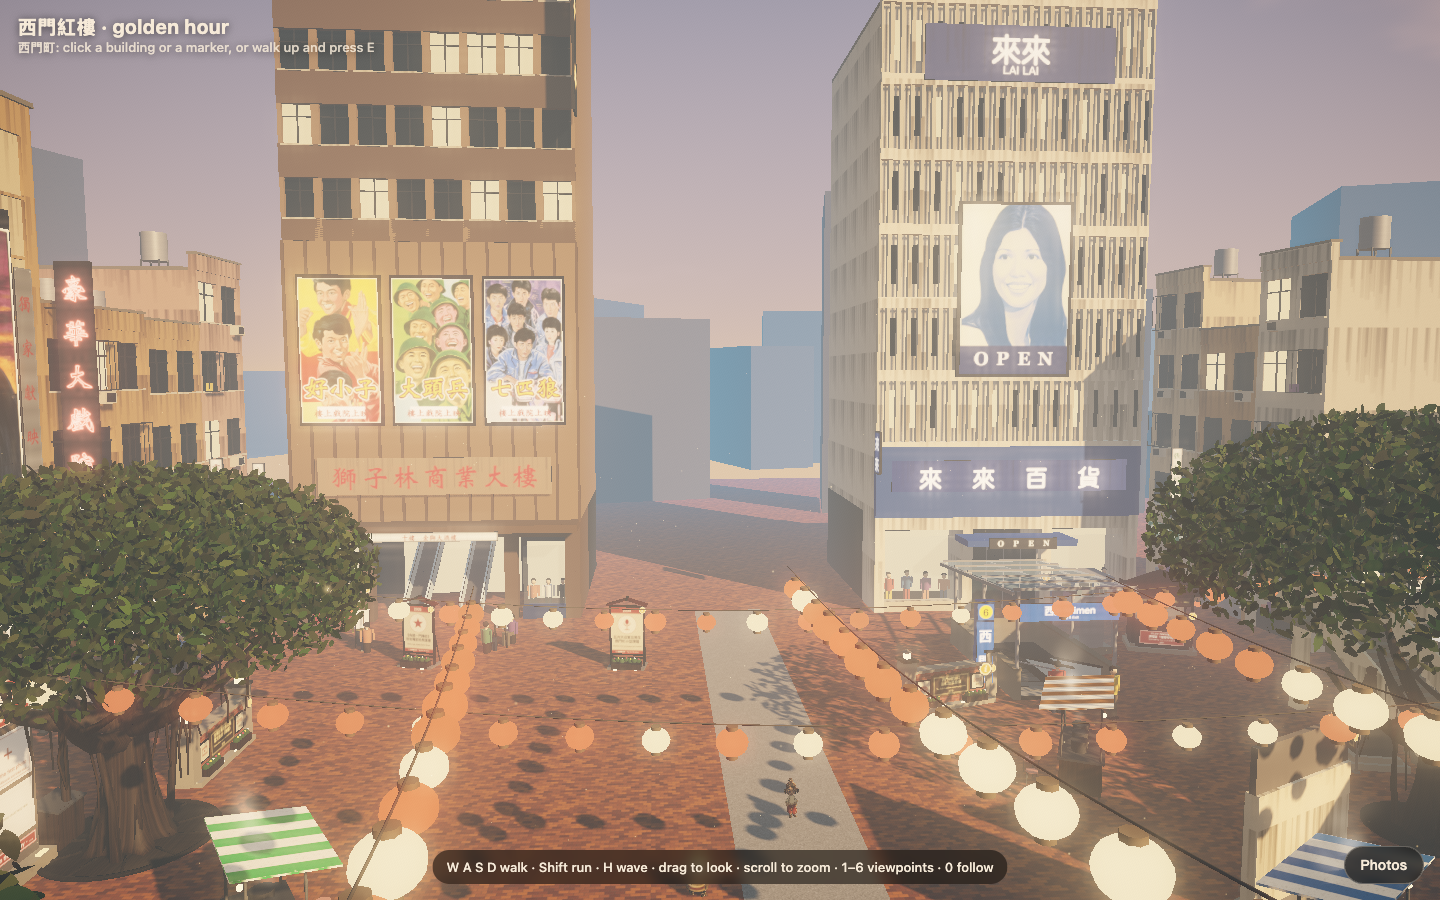
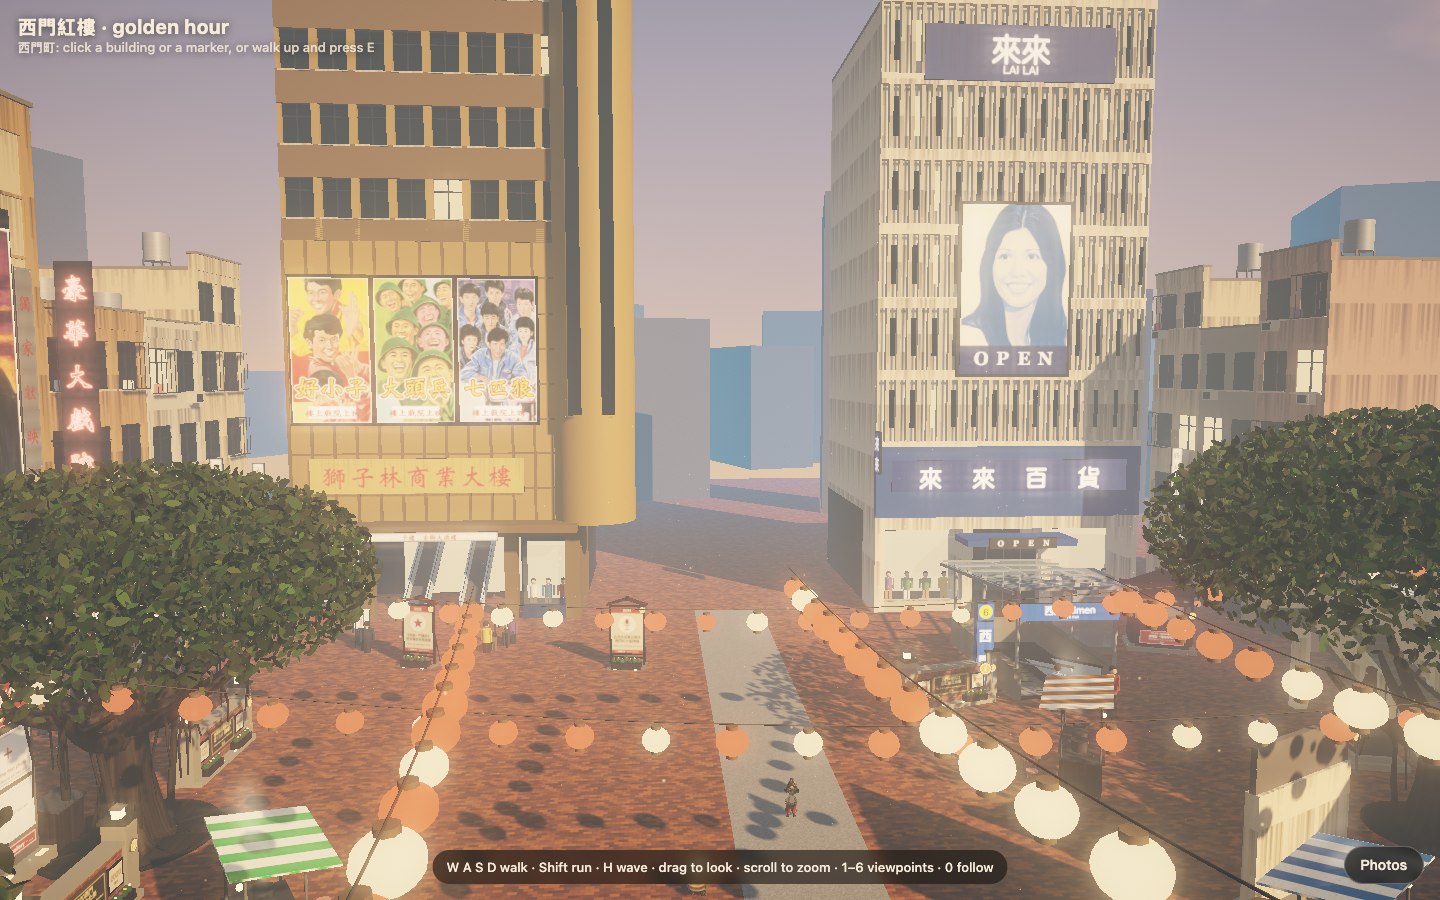
feat(remake): 蜂大, 南美, 天后宮, 萬年 and 獅子林 fronts rebuilt from their photos
Brick and tile shopfronts, a three-storey temple face, 萬年's ribbed front
with the name down the middle, 獅子林's gold panels and corner tower.

diff --git a/remake/landmarks-ximen.js b/remake/landmarks-ximen.js
@@ -312,12 +312,17 @@ function wannian() {
   [[-5.0, -2.4], [2.6, 5.0]].forEach(([a, b]) => { K.bx(a, b, 0.5, 3.4, -0.6, -0.55, M.pane); K.bx(a, b, 0, 0.5, -0.7, -0.1, M.greenDk); K.bx(a + 0.05, b - 0.05, 0.5, 3.4, -3.18, -3.14, M.shopLit);
     for (let s = 0; s < 5; s++) { const y = 0.55 + s * 0.55; K.bx(a + 0.05, b - 0.05, y, y + 0.03, -1.5, -0.75, M.jar); for (let k = 0; k < 7; k++) { const gx = a + 0.1 + k * (b - a - 0.2) / 7; K.bx(gx, gx + 0.26, y + 0.03, y + rr(0.2, 0.48), -1.4, -0.9, pick(CLOTH)); } } });     // model-kit boxes stacked to the ceiling
   K.mesh(sign('豪華鐘錶公司', 2.3, 0.42, { kind: 'box', bg: '#f1ead6', fg: '#1a1a1a', spread: true, glow: 0.8, oneSide: true }), -3.7, 3.62, 0.06); K.mesh(sign('萬年冰宮', 2.3, 0.42, { kind: 'box', bg: '#1f4f9c', fg: '#ffffff', spread: true, glow: 0.8, oneSide: true }), 3.8, 3.62, 0.06);
-  K.mesh(sign('萬年', 5.6, 1.5, { font: FONT, weight: 900, bg: '#efe6cf', fg: '#1a1a1a', border: false, glow: 0.5, oneSide: true }), 0, G + 0.62, 0.08);
+  K.mesh(sign('萬年', 3.2, 1.1, { font: FONT, weight: 900, bg: '#efe6cf', fg: '#1a1a1a', border: false, spread: true, glow: 0.5, oneSide: true }), 0, G + 0.75, 0.1);
   // the corner fin: a three-sided neon tower, name running down nine floors
-  const fx = x0 - 0.05; K.box(1.5, top - G - 1, 1.5, M.greenDk, fx, (top + G + 1) / 2, 0.15, Math.PI / 4);
-  [[-Math.PI / 4, -0.62, 0.72], [Math.PI / 4, 0.62, 0.72]].forEach(([ry, dx, dz]) => K.mesh(sign('萬年商業大樓', 1.34, 19, { vertical: true, font: FONT, weight: 900, bg: '#3f8a66', fg: '#e3261c', border: false, glow: 1.1, oneSide: true, ppm: 52 }), fx + dx, G + 15.6, 0.15 + dz, ry));
+  // the front as the 2020 photo shows it: green with narrow white ribs, few windows; the name down the middle in red block characters under the dark oval; tenant signs hung either side
+  const LG = tm('#6fae62', TEX.concrete, 1.2, 0.55); K.bx(x0, x1, G + 1.5, top + 1.1, 0, 0.08, LG); for (let x = x0 + 0.3; x < x1; x += 0.62) K.bx(x - 0.07, x + 0.07, G + 1.5, top + 1.1, 0.08, 0.2, M.white);
+  for (let f = 0; f < 8; f++) [-3.4, 3.4].forEach(x => { if (rnd() < 0.5) K.bx(x - 0.24, x + 0.24, G + 2.6 + f * fh, G + 3.9 + f * fh, 0.08, 0.1, M.glassBlue); });
+  K.bx(-1.15, 1.15, G + 1.5, top - 0.2, 0.08, 0.22, LG); K.mesh(sign('萬年商業大樓', 1.7, 15.5, { vertical: true, font: FONT, weight: 900, bg: '#5a9a52', fg: '#e3261c', border: false, glow: 1.0, oneSide: true, ppm: 60 }), 0, G + 10.4, 0.28);
   K.mesh(paint(4.4, 2.4, (g, W, H) => { g.fillStyle = '#1d4a39'; g.fillRect(0, 0, W, H); g.fillStyle = '#16181c'; g.beginPath(); g.ellipse(W / 2, H / 2, W * 0.47, H * 0.44, 0, 0, 7); g.fill(); g.textAlign = 'center'; g.textBaseline = 'middle'; g.font = `800 ${H * 0.42}px ${KAI}`;
-    [['年', 0.29], ['萬', 0.71]].forEach(([c, x]) => { g.strokeStyle = '#fff'; g.lineWidth = H * 0.035; g.beginPath(); g.arc(W * x, H / 2, H * 0.32, 0, 7); g.stroke(); g.fillStyle = '#fff'; g.fillText(c, W * x, H * 0.52); }); }, { glow: 1.2, oneSide: true }), 1.2, top + 2.5, -0.3);   // the dark oval over the corner sign: 年 and 萬 in two white rings, read right to left (2020 Commons photo) lattice(K, -1.0, 3.4, top + 1.1, top + 3.7, -0.5, 2);
+    [['年', 0.29], ['萬', 0.71]].forEach(([c, x]) => { g.strokeStyle = '#fff'; g.lineWidth = H * 0.035; g.beginPath(); g.arc(W * x, H / 2, H * 0.32, 0, 7); g.stroke(); g.fillStyle = '#fff'; g.fillText(c, W * x, H * 0.52); }); }, { glow: 1.0, oneSide: true }), 0, top - 1.9, 0.3);
+  [[-4.4, '豪華鐘錶公司', '#f4f1e8', '#141414'], [-2.6, '萬年冰宮', '#1f4f9c', '#ffffff'], [2.6, '湯姆熊', '#f2c832', '#c21f1a'], [4.4, 'U2電影館', '#7a1a22', '#ffffff']].forEach(([x, t, bg, fg], i) => { const h = 4.2 + (i % 2) * 1.4, y = G + 6.5 + (i % 3) * 2.2;
+    K.mesh(sign(t, 0.75, h, { vertical: true, kind: 'box', font: FONT, weight: 800, bg, fg, glow: 0.8 }), x, y, 0.7, Math.PI / 2); [y - h / 2 + 0.4, y + h / 2 - 0.4].forEach(yy => K.bx(x - 0.03, x + 0.03, yy, yy + 0.05, 0.2, 0.5, M.frame)); });
+  K.bx(x0, x1, G, G + 1.5, 0, 0.07, std('#efe6cf', 0.7));
   return K.done();
 }
 
@@ -351,8 +356,16 @@ function cinema() {
 // ══ 4. 台北天后宮: the narrow gate squeezed between shops on 成都路 ═══════════════════════════════════════
 function tianhou() {
   const K = Kit('tianhou-temple'), w = 6, x0 = -3, x1 = 3;
-  K.bx(x0, x1, 0, 10.5, -10, -1.6, M.pink); facade(K, { x0, x1, y0: 7.0, floors: 1, fh: 3.2, bays: 3, wall: M.pink, pier: 0.5, lit: 0.3 }); K.bx(x0, x1, 10.2, 10.9, -0.3, 0.05, M.pink);
-  K.bx(x0, x0 + 0.45, 0, 7, -1.6, 0, M.pink); K.bx(x1 - 0.45, x1, 0, 7, -1.6, 0, M.pink);
+  // the front as the 2025 photo shows it: three storeys of dark red brick. Ground floor the gate under a carved gilt eave and a row of red lanterns; second floor the name in white
+  // over a round red emblem, a window each side; third floor a balcony behind two columns; a green swallow-tail roof on top. The yellow uprights hang off the sides.
+  const RW = tm('#7a2a22', TEX.brick, 1, 0.9);
+  K.bx(x0, x1, 0, 12, -10, -1.6, RW); K.bx(x0, x0 + 0.45, 0, 12, -1.6, 0, RW); K.bx(x1 - 0.45, x1, 0, 12, -1.6, 0, RW);
+  K.bx(x0, x1, 5.9, 9.0, -1.6, -0.2, RW); K.bx(x0, x1, 11.4, 12.0, -1.6, 0.05, RW); K.bx(x0, x1, 9.0, 11.4, -1.6, -1.4, M.dark);
+  K.bx(-3.1, 3.1, 5.0, 5.5, 0, 0.55, M.gold); K.box(6.3, 0.12, 1.0, M.tileGreen, 0, 5.75, 0.5, 0, 0.45); for (let i = 0; i < 12; i++) K.bx(-2.9 + i * 0.5, -2.62 + i * 0.5, 5.08, 5.42, 0.55, 0.57, i % 2 ? M.redDk : M.tileGreen);          // the carved eave over the door
+  K.cyl(0.84, 0.84, 0.06, M.gold, 0, 6.95, -0.16, 28, [Math.PI / 2, 0, 0]); K.cyl(0.76, 0.76, 0.08, M.red, 0, 6.95, -0.13, 28, [Math.PI / 2, 0, 0]);                                                                               // the round emblem, as a plain disc
+  [-1, 1].forEach(k => { K.bx(k * 1.35, k * 2.4, 6.3, 7.9, -0.2, -0.15, M.glass); K.bx(k * 1.3, k * 2.45, 6.22, 6.3, -0.2, -0.08, M.gold); K.bx(k * 1.3, k * 2.45, 7.9, 7.98, -0.2, -0.08, M.gold); });
+  K.bx(-3.1, 3.1, 8.85, 9.0, -0.2, 0.5, M.tileGreen); K.bx(-3, 3, 8.65, 8.85, -0.1, 0.35, M.gold);
+  [-1.1, 1.1].forEach(x => K.cyl(0.16, 0.16, 2.4, M.stone, x, 10.2, -0.05, 10)); K.bx(-2.55, 2.55, 9.62, 9.7, -0.1, 0.02, M.concLt); for (let i = 0; i <= 16; i++) K.bx(-2.5 + i * 0.3125 - 0.03, -2.5 + i * 0.3125 + 0.03, 9.0, 9.62, -0.07, -0.01, M.concLt);
   // a glimpse of the courtyard and the main hall through the gate
   K.mesh(paint(4.6, 3.9, (g, W, H) => { const gr = g.createLinearGradient(0, 0, 0, H); gr.addColorStop(0, '#2a1410'); gr.addColorStop(1, '#6a3a20'); g.fillStyle = gr; g.fillRect(0, 0, W, H);
     g.fillStyle = '#c8612c'; g.beginPath(); g.moveTo(W * 0.05, H * 0.3); g.quadraticCurveTo(W * 0.5, H * 0.16, W * 0.95, H * 0.3); g.lineTo(W * 0.88, H * 0.4); g.lineTo(W * 0.12, H * 0.4); g.fill();
@@ -364,7 +377,7 @@ function tianhou() {
   [-2.45, -1.15, 1.15, 2.45].forEach(x => { K.cyl(0.2, 0.2, 4.3, M.red, x, 2.45, 0.2, 12); K.cyl(0.26, 0.3, 0.32, M.stone, x, 0.16, 0.2, 12); K.bx(x - 0.26, x + 0.26, 4.5, 4.7, -0.06, 0.46, M.gold); });
   K.bx(-2.75, 2.75, 3.95, 4.3, 0.05, 0.35, M.tileGreen); K.bx(-2.75, 2.75, 4.3, 4.42, 0.02, 0.38, M.gold); K.bx(-2.75, 2.75, 4.7, 5.0, 0, 0.4, M.redDk); K.bx(-1.3, 1.3, 5.0, 5.9, 0.02, 0.38, M.redDk);
   for (let i = 0; i < 9; i++) K.bx(-2.6 + i * 0.62, -2.6 + i * 0.62 + 0.3, 4.02, 4.24, 0.35, 0.37, i % 2 ? M.gold : M.blue);
-  K.mesh(sign('台北天后宮', 2.4, 0.72, { bg: '#6e1f1c', fg: '#ffffff', font: XING, spread: true, border: false, glow: 0.7, oneSide: true }), 0, 5.42, 0.42);
+  K.mesh(sign('台北天后宮', 3.0, 0.62, { bg: '#7a2a22', fg: '#ffffff', font: XING, spread: true, border: false, glow: 0.5, oneSide: true }), 0, 8.2, -0.14);
   [x0 - 0.08, x1 + 0.08].forEach(x => { K.mesh(sign('台北天后宮', 0.62, 4.4, { vertical: true, kind: 'box', font: KAI, bg: '#f2c832', fg: '#c21f1a', glow: 0.8 }), x, 7.6, 0.55, Math.PI / 2); [5.9, 9.3].forEach(y => K.bx(x - 0.03, x + 0.03, y, y + 0.05, 0, 0.3, M.frame)); });   // the two tall yellow signs with the name in red, hung off the upper floors at each side (looked at the 2025 photo)
   // swallow-tail roofs: a high one over the middle bay, a lower one each side
   const roof = (cx, rw, yE, rise, up) => { const zF = 1.25, zB = -1.5, zm = -0.1, a = Math.atan2(rise, zF - zm), L = Math.hypot(rise, zF - zm), b = Math.atan2(rise, zm - zB), Lb = Math.hypot(rise, zm - zB);
@@ -376,8 +389,8 @@ function tianhou() {
     [-1, 1].forEach(k => { K.box(0.9, 0.09, 0.12, M.tileGreen, cx + k * (hw + 0.33), yR + up + 0.34, zm, 0, 0, k * 0.85); });                                 // the swallow tails
     for (let i = -2; i <= 2; i++) if (i) K.sph(0.13, pick([M.tileGreen, M.blue, M.gold]), cx + i * rw * 0.16, yR + up * Math.pow(Math.abs(i) * 0.32, 2.4) + 0.3, zm);
     K.sph(0.17, M.gold, cx, yR + 0.42, zm); K.cyl(0.03, 0.09, 0.3, M.gold, cx, yR + 0.2, zm, 8); };
-  roof(0, 3.0, 5.95, 0.95, 0.75); roof(-2.15, 1.9, 5.0, 0.75, 0.5); roof(2.15, 1.9, 5.0, 0.75, 0.5);
-  [-1.8, -0.6, 0.6, 1.8].forEach(x => lantern(K, x, 3.3, 0.75)); lantern(K, 0, 3.55, 0.95, 0.3);
+  roof(0, 5.6, 12.0, 0.95, 0.8); [-1.6, 1.6].forEach(x => { K.sph(0.22, M.tileGreen, x, 13.75, -0.1, 1.4); K.sph(0.12, M.gold, x * 1.15, 14.0, -0.1); });                                // the roof and its two dragons, as blocks
+  [-2.0, -1.2, -0.4, 0.4, 1.2, 2.0].forEach(x => lantern(K, x, 3.35, 0.8));                                                                                              // six red lanterns in a row over the door
   [-2.75, 2.75].forEach(x => { K.bx(x - 0.3, x + 0.3, 0, 0.55, 0.75, 1.35, M.stone); K.box(0.36, 0.5, 0.5, M.stone, x, 0.8, 1.05, 0, -0.25); K.sph(0.2, M.stone, x, 1.2, 1.2); K.sph(0.09, M.stone, x - 0.0, 1.05, 1.36); });     // the stone lions, as blocks
   K.cyl(0.42, 0.3, 0.5, M.gold, 0, 0.95, -0.7, 12); K.cyl(0.46, 0.46, 0.06, M.gold, 0, 1.22, -0.7, 12); [0, 2.1, 4.2].forEach(a => K.cyl(0.05, 0.04, 0.7, M.gold, Math.sin(a) * 0.28, 0.35, -0.7 + Math.cos(a) * 0.28, 6));
   [-0.42, 0.42].forEach(x => K.cyl(0.035, 0.035, 0.4, M.gold, x, 1.3, -0.7, 6));
@@ -405,14 +418,19 @@ function starfruit() {
 // ══ 6. 蜂大咖啡, with 南美咖啡 next door: an arcade shopfront and its row of biscuit jars ═════════════════
 function fongda() {
   const K = Kit('fong-da'), x0 = -3.5, x1 = 3.5, G = 3.7, mid = 0.5;
-  const top = facade(K, { x0, x1, y0: G, floors: 3, fh: 3.1, bays: 4, wall: M.cream, depth: 10, pier: 0.42, ac: 0.4, grille: 0.45, lit: 0.2 });
-  K.bx(x0, x1, top, top + 0.8, -0.3, 0.05, M.cream); K.bx(x0, x1, top, top + 0.15, -10, -0.3, M.concDk); waterTank(K, 1.5, top + 0.15, -4);
-  K.bx(x0, x1, 0, G, -10, -3.0, M.dark); [x0, mid - 0.22, x1 - 0.45].forEach(x => K.bx(x, x + 0.45, 0, G, -0.45, 0, M.stone)); K.bx(x0, x1, 3.0, G, -0.45, 0, M.cream); K.bx(mid - 0.08, mid + 0.08, 0, 3.0, -3, -0.45, M.concDk);
+  // the two fronts as the 2023 photo shows them: 蜂大 in red brick, a white panel in its wide second-floor window; 南美 in small white tile with one dark window and a railed roof terrace
+  const TILE = triMat({ color: '#f0efe8', tex: E.canvasTex(128, (g, n) => { g.fillStyle = '#fff'; g.fillRect(0, 0, n, n); g.strokeStyle = '#7d7d78'; g.lineWidth = 3; for (let i = 0; i <= 4; i++) { g.beginPath(); g.moveTo(i * n / 4, 0); g.lineTo(i * n / 4, n); g.moveTo(0, i * n / 4); g.lineTo(n, i * n / 4); g.stroke(); } }), scale: 2.2, rough: 0.45 });
+  const top = facade(K, { x0, x1: mid, y0: G, floors: 2, fh: 3.1, bays: 2, wall: M.brick, depth: 10, pier: 0.5, ac: 0.5, lit: 0.2 });
+  facade(K, { x0: mid, x1, y0: G, floors: 2, fh: 3.1, bays: 1, wall: TILE, depth: 10, pier: 0.9, sill: 1.1, head: 0.7, lit: 0 });
+  K.bx(x0, mid, top, top + 0.7, -0.3, 0.05, M.brick); K.bx(mid, x1, top, top + 0.5, -0.3, 0.05, TILE); K.bx(x0, x1, top, top + 0.15, -10, -0.3, M.concDk); waterTank(K, -1.5, top + 0.15, -4);
+  lattice(K, mid + 0.1, x1 - 0.1, top + 0.5, top + 1.5, -0.15, 3); K.bx(mid - 0.06, mid + 0.06, G, top + 0.7, -0.05, 0.12, M.concDk);
+  K.mesh(paint(1.5, 1.25, (g, W, H) => { g.fillStyle = '#f2f1ea'; g.fillRect(0, 0, W, H); g.strokeStyle = '#1a1a1a'; g.lineWidth = H * 0.02; g.beginPath(); for (let i = 0; i < 7; i++) { const a = i / 6 * 6.2832; g.lineTo(W / 2 + Math.cos(a) * H * 0.12, H * 0.36 + Math.sin(a) * H * 0.12); } g.stroke(); g.fillStyle = '#1a1a1a'; g.textAlign = 'center'; g.font = `700 ${H * 0.085}px Georgia, serif`; g.fillText('FONG DA COFFEE', W / 2, H * 0.62); }, { glow: 0.3, oneSide: true, light: true, depth: 0.04 }), (x0 + mid) / 2 + 0.2, G + 2.0, -0.2);
+  K.bx(x0, x1, 0, G, -10, -3.0, M.dark); K.bx(x0, x0 + 0.45, 0, G, -0.45, 0, M.brick); K.bx(mid - 0.22, mid + 0.23, 0, G, -0.45, 0, M.brick); K.bx(x1 - 0.45, x1, 0, G, -0.45, 0, TILE); K.bx(x0, mid, 3.0, G, -0.45, 0, M.brick); K.bx(mid, x1, 3.0, G, -0.45, 0, TILE); K.bx(mid - 0.08, mid + 0.08, 0, 3.0, -3, -0.45, M.concDk);
   [x0, x1 - 0.2].forEach(x => K.bx(x, x + 0.2, 0, G, -3, -0.45, M.concDk)); K.bx(x0, x1, 2.95, 3.0, -3, -0.45, M.concLt); [-1.5, 2.0].forEach(x => K.bx(x - 0.6, x + 0.6, 2.88, 2.94, -1.6, -1.5, M.tube));
   K.mesh(paint(3.9, 0.82, (g, W, H) => { g.fillStyle = '#f4f1e8'; g.fillRect(0, 0, W, H); g.fillStyle = '#1a1a1a'; [0, 0.89].forEach(x => { for (let i = 0; i < 7; i++) g.fillRect(W * x, H * (0.06 + i * 0.13), W * 0.11, H * 0.07); });
     g.beginPath(); g.arc(W * 0.2, H * 0.44, H * 0.26, 0, 7); g.fill(); g.strokeStyle = '#f4f1e8'; g.lineWidth = H * 0.03; g.beginPath(); for (let i = 0; i < 7; i++) { const a = i / 6 * 6.2832; g.lineTo(W * 0.2 + Math.cos(a) * H * 0.15, H * 0.44 + Math.sin(a) * H * 0.15); } g.stroke();
     g.textAlign = 'center'; g.textBaseline = 'middle'; g.font = `900 ${H * 0.46}px ${FONT}`; [...'蜂大咖啡'].forEach((c, i) => g.fillText(c, W * (0.34 + i * 0.145), H * 0.42)); g.font = `600 ${H * 0.13}px ${FONT}`; g.fillText('創立於西元1956年　咖啡器材專業經營', W * 0.56, H * 0.83); }, { glow: 0.35, oneSide: true, light: true }), -1.5, 3.36, 0.06); K.mesh(sign('南美咖啡', 2.6, 0.82, { font: WEI, bg: '#3a1a1e', fg: '#f1dfb4', spread: true, glow: 0.7, oneSide: true }), 2.0, 3.36, 0.06);
-  K.mesh(sign('蜂大咖啡', 0.55, 5.2, { vertical: true, kind: 'box', font: FONT, weight: 900, bg: '#f4f1e8', fg: '#141414', glow: 0.6 }), mid, 6.6, 0.85, Math.PI / 2); K.mesh(sign('南美咖啡', 0.5, 2.2, { vertical: true, font: WEI, bg: '#3a1a1e', fg: '#f1dfb4', glow: 0.6 }), x1 - 0.4, 5.6, 0.75, Math.PI / 2);
+  K.mesh(sign('蜂大咖啡', 0.55, 4.6, { vertical: true, kind: 'box', font: FONT, weight: 900, bg: '#f4f1e8', fg: '#141414', glow: 0.6 }), mid, 6.9, 0.85, Math.PI / 2); K.mesh(sign('南美咖啡', 0.5, 2.2, { vertical: true, font: WEI, bg: '#3a1a1e', fg: '#f1dfb4', glow: 0.6 }), x1 - 0.4, 5.6, 0.75, Math.PI / 2);
   // 蜂大: the counter at the door with big glass jars of biscuits, the shelves and bean bins behind, the roaster deep inside
   K.bx(x0 + 0.5, mid - 0.4, 0, 0.95, -1.15, -0.5, M.woodDk); K.bx(x0 + 0.45, mid - 0.35, 0.95, 1.0, -1.2, -0.45, M.wood); for (let i = 0; i < 7; i++) jar(K, x0 + 0.78 + i * 0.42, 1.0, -0.82, 0.17, 0.46, M.biscuit, M.red);
   K.bx(x0 + 0.3, mid - 0.2, 0.2, 2.8, -2.98, -2.94, M.shopLit); for (let s = 0; s < 4; s++) { const y = 0.9 + s * 0.48; K.bx(x0 + 0.3, mid - 0.2, y, y + 0.04, -2.9, -2.55, M.woodDk); for (let k = 0; k < 9; k++) { const gx = x0 + 0.4 + k * 0.38; if (rnd() < 0.85) K.cyl(0.11, 0.11, rr(0.2, 0.36), pick([M.biscuit, M.woodDk, M.red, M.jar]), gx, y + 0.2, -2.72, 8); } }
@@ -449,16 +467,19 @@ function aychung() {
 
 // ══ 8. 獅子林商業大樓: ten storeys, film posters for the cinemas upstairs, escalators seen through the door ═
 function lions() {
-  const K = Kit('lions-plaza'), x0 = -6.5, x1 = 6.5, G = 4.6, P = 4, D = 12;
-  K.bx(x0, x1, G, G + P * 3.2, -D, -0.05, M.tan); for (let i = 0; i <= 13; i++) K.bx(x0 + i - 0.06, x0 + i + 0.06, G, G + P * 3.2, -0.05, 0.05, M.tanDk);
-  const top = facade(K, { x0, x1, y0: G + P * 3.2, floors: 5, fh: 3.2, bays: 8, wall: M.tan, band: M.tanDk, depth: D, pier: 0.34, sill: 1.0, lit: 0.2 });
-  K.bx(x0, x1, top, top + 1.0, -0.4, 0, M.tan); K.bx(x0, x1, top, top + 0.2, -D, -0.4, M.concDk); waterTank(K, -3, top + 0.2, -6); K.bx(1, 5, top + 0.2, top + 3, -8, -4, M.tanDk);
-  [['好小子', -4.1, 40, 'kids.jpg'], ['大頭兵', 0, 150, 'army.jpg'], ['七匹狼', 4.1, 260, 'denim.jpg']].forEach(([t, x, hue, img]) => { K.bx(x - 1.85, x + 1.85, G + 4.5, G + 11.3, -0.05, 0.1, M.woodDk); K.mesh(paint(3.5, 6.5, filmPoster(t, '樓上戲院上映', hue, { img }), { glow: 0.42, oneSide: true, ppm: 110, depth: 0.06 }), x, G + 7.9, 0.13); });
-  K.mesh(sign('獅子林商業大樓', 10.5, 1.7, { bg: '#8f6f4e', fg: '#d9261c', font: WEI, spread: true, border: false, glow: 0.8, oneSide: true }), 0, G + 2.2, 0.12);
-  K.mesh(sign('獅子林', 1.3, 9, { vertical: true, kind: 'neon', font: WEI, bg: '#151515', fg: '#ffb23a', glow: 1.6 }), x1 + 0.1, top - 6, 1.0, Math.PI / 2);
+  const K = Kit('lions-plaza'), x0 = -6.5, x1 = 6.5, G = 4.6, P = 4, D = 12, GOLD = tm('#c9a246', TEX.concrete, 1.2, 0.5), GOLDDK = tm('#8f6f2c', TEX.concrete, 1.2, 0.6);   // 「金黃色的大樓外觀十分顯眼」 (1984 press caption)
+  K.bx(x0, x1, G, G + P * 3.2, -D, -0.05, GOLD); for (let i = 0; i <= 13; i++) K.bx(x0 + i - 0.06, x0 + i + 0.06, G, G + P * 3.2, -0.05, 0.05, GOLDDK);
+  const top = facade(K, { x0, x1, y0: G + P * 3.2, floors: 5, fh: 3.2, bays: 8, wall: GOLD, band: GOLDDK, depth: D, pier: 0.34, sill: 1.0, lit: 0.2 });
+  K.bx(x0, x1, top, top + 1.0, -0.4, 0, GOLD); K.bx(x0, x1, top, top + 0.2, -D, -0.4, M.concDk); waterTank(K, -3, top + 0.2, -6); K.bx(1, 5, top + 0.2, top + 3, -8, -4, GOLDDK);
+  [['好小子', -4.5, 40, 'kids.jpg'], ['大頭兵', -0.8, 150, 'army.jpg'], ['七匹狼', 2.9, 260, 'denim.jpg']].forEach(([t, x, hue, img]) => { K.bx(x - 1.85, x + 1.85, G + 4.5, G + 11.3, -0.05, 0.1, M.woodDk); K.mesh(paint(3.5, 6.5, filmPoster(t, '樓上戲院上映', hue, { img }), { glow: 0.42, oneSide: true, ppm: 110, depth: 0.06 }), x, G + 7.9, 0.13); });
+  K.mesh(sign('獅子林商業大樓', 9.6, 1.6, { bg: '#b08d3c', fg: '#d9261c', font: WEI, spread: true, border: false, glow: 0.8, oneSide: true }), -0.8, G + 2.2, 0.12);
+  for (let i = 1; i < P * 2; i++) K.bx(x0, x1, G + i * 1.6 - 0.04, G + i * 1.6 + 0.04, -0.05, 0.05, GOLDDK);                                                      // the square panel joints
+  const cx = x1 + 0.7, cz = -0.6, R = 1.9; K.cyl(R, R, top + 1.2 - G, GOLD, cx, (top + 1.2 + G) / 2, cz, 20); [-0.75, 0.75].forEach(d => K.bx(cx + d - 0.3, cx + d + 0.3, G + 5, top - 1.2, cz + R - 0.25, cz + R - 0.02, M.glass));   // the rounded corner tower and its two dark glass strips
+  K.cyl(R + 0.25, R + 0.25, 2.2, std('#3a2c18', 0.5, 0.3), cx, top + 2.3, cz, 20); [-0.95, 0.95].forEach(d => K.sph(0.48, M.tube, cx + d, top + 0.75, cz + R - 0.1));                                             // the crown and the two globe lamps under it
+  K.mesh(sign('獅子林', 3.1, 1.3, { kind: 'neon', font: WEI, bg: '#3a2c18', fg: '#ffcf5a', sub: "LIONS' PLAZA", glow: 1.4, oneSide: true }), cx, top + 2.35, cz + R + 0.28);
   // street level: a wide mouth, two escalators rising inside a lit lobby
-  K.bx(x0, x1, 0, G, -D, -5.5, M.dark); [x0, x1 - 0.7].forEach(x => K.bx(x, x + 0.7, 0, G, -5.5, 0, M.tanDk)); [-3.6, 3.0].forEach(x => K.bx(x, x + 0.6, 0, G, -0.6, 0, M.tanDk)); K.bx(x0, x1, G - 0.7, G, -0.6, 0, M.tanDk);
-  K.bx(x0, x1, G - 0.25, G + 0.1, 0, 1.6, M.tanDk); K.mesh(sign('十樓　金獅大酒樓', 6, 0.42, { kind: 'box', font: KAI, bg: '#f3ecd9', fg: '#a3221a', glow: 0.8, oneSide: true }), 0, G - 0.36, 1.62);
+  K.bx(x0, x1, 0, G, -D, -5.5, M.dark); [x0, x1 - 0.7].forEach(x => K.bx(x, x + 0.7, 0, G, -5.5, 0, GOLDDK)); [-3.6, 3.0].forEach(x => K.bx(x, x + 0.6, 0, G, -0.6, 0, GOLDDK)); K.bx(x0, x1, G - 0.7, G, -0.6, 0, GOLDDK);
+  K.bx(x0, x1, G - 0.25, G + 0.1, 0, 1.6, GOLDDK); K.mesh(sign('十樓　金獅大酒樓', 6, 0.42, { kind: 'box', font: KAI, bg: '#f3ecd9', fg: '#a3221a', glow: 0.8, oneSide: true }), 0, G - 0.36, 1.62);
   K.bx(-3.0, 3.0, 0.05, G - 0.7, -5.48, -5.44, M.shopLit); K.bx(-3.0, 3.0, G - 0.78, G - 0.72, -3, -2.9, M.tube);
   [-1.3, 1.3].forEach(x => { K.box(1.0, 0.25, 5.4, M.steelDk, x, 1.6, -3.0, 0, 0.6); [-0.5, 0.5].forEach(d => { K.box(0.08, 0.7, 5.6, M.jar, x + d, 2.1, -3.0, 0, 0.6); K.box(0.1, 0.06, 5.7, M.black, x + d, 2.46, -3.0, 0, 0.6); }); for (let i = 0; i < 12; i++) K.box(0.84, 0.03, 0.2, M.steel, x, 0.3 + i * 0.27, -1.1 - i * 0.39); });
   [[-5.1, '#b3271e'], [4.9, '#1f3a6e']].forEach(([x, c]) => { K.bx(x - 1.1, x + 1.1, 0.6, 3.4, -0.5, -0.45, M.pane); K.bx(x - 1.05, x + 1.05, 0.6, 3.4, -1.6, -1.56, M.shopLit); K.bx(x - 1.1, x + 1.1, 0, 0.6, -0.6, -0.1, std(c, 0.6)); for (let k = 0; k < 3; k++) person(K, x - 0.7 + k * 0.7, -1.0, 0, { h: 1 }); });

diff --git a/docs/signage/sources.md b/docs/signage/sources.md
@@ -82,7 +82,7 @@ CJ, 2026-11-21: 「很多沒有按照真實招牌」. The first pass drew the si
 - 萬年: the name down the building is solid red block characters, not brush or tube; the band over the door is cream with black characters (S14).
 - 中華商場: the walkway banner is light cloth with dark characters; the upright boards are tall white boards with black characters; the 國際牌 tower is back on its frame, red with a white ring and the name across it, blue bands at the corners (S1, S3, S4). Its lightning-bolt mark is left out.
 
-Still different from the photos, because the building and not the sign would have to change: 蜂大's red-brick front and 南美's white tile, the three-storey temple front of 天后宮 with its round emblem and six lanterns, 獅子林's gold panels and rounded corner tower with the crown sign, and 萬年's green-and-white ribs with the name on the flat front and tenant signs down both sides.
+Third pass, the fronts (CJ, 2026-11-21: "Yes, rebuild fronts"). Rebuilt from the same photos: 蜂大 in red brick with the white panel in its second-floor window, 南美 in small white tile with a railed roof terrace (S20); 天后宮 as three storeys of dark red brick, the gate under a carved gilt eave and six lanterns, the name over a round red disc on the second floor, a balcony behind two columns on the third, a swallow-tail roof on top (S25); 萬年 in green with narrow white ribs, the name down the flat front under the oval, four tenant signs hung at the sides, a cream band over the ground floor (S14); 獅子林 in gold panels with a rounded corner tower, two dark glass strips, and the crown sign with two globe lamps on top (S16, S26, S29). Simplified, not copied: the temple's emblem is a plain red disc and its roof dragons are blocks; the 蜂大 mark is a plain hexagon; the 獅子林 crown lettering is ours. 萬年's tenant signs mix eras (萬年冰宮 early, 湯姆熊 and U2電影館 later).
 
 ## Poster pictures
 
